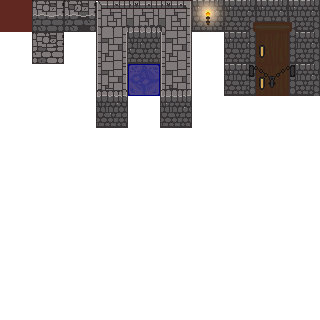
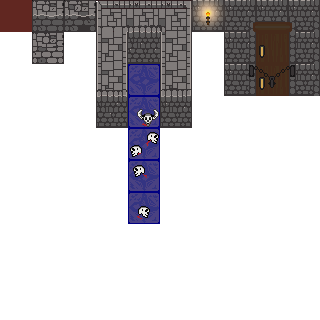
Added floor art (skulls)

Changed region(s): [[0.375, 0.2812, 0.5, 0.7188]]

diff --git a/js/world.js b/js/world.js
@@ -107,7 +107,7 @@ const TILE_DUNGEON_WALL_CORNER_TL = 204;
 const TILE_DUNGEON_WALL_CORNER_TR = 205;
 const TILE_DUNGEON_WALL_CORNER_BL = 206;
 const TILE_DUNGEON_WALL_CORNER_BR = 207;
-const TILE_DUNGEON_WALL_CENTER = 208; // wrong name: actually a floor tile
+const TILE_DUNGEON_FLOOR = 208; 
 const TILE_DUNGEON_DOOR_TL = 209;
 const TILE_DUNGEON_DOOR_TC = 210; // a floor tile so we can walk through
 const TILE_DUNGEON_DOOR_TR = 211;
@@ -122,6 +122,11 @@ const TILE_DUNGEON_WALL_3 = 217;
 const TILE_DUNGEON_LOCKED_DOOR_BL = 218;
 const TILE_DUNGEON_LOCKED_DOOR_BC = 219; 
 const TILE_DUNGEON_LOCKED_DOOR_BR = 220;
+const TILE_DUNGEON_FLOOR_SKULL1 = 221;
+const TILE_DUNGEON_FLOOR_SKULL2 = 222;
+const TILE_DUNGEON_FLOOR_SKULL3 = 223;
+const TILE_DUNGEON_FLOOR_SKULL4 = 224;
+
 
 var MAP_DATA = {
   fallDale: {
@@ -263,13 +268,13 @@ const WORLD_MAPS = {
     [202, 88,208,208,208,208,208,208,208,208,208,208,208,208,201, 88,208,208,208,208,208,208,208,208,208,203,208,208,208,208,208,208,208,208,208,208,208,208,208,208,208,208,208,208,203],
     [202,208,208,208,208,208,208,208,208,208,208,208,208,208,201,208,208,208,208,208,208,208,208,208,208,203,208,208,208,208,208,208,208,208,208,208,208,208,208,208,208,208,208,208,203],
     [202,208,208,208,208,208,208,208,208,208,208,208,208,208,208,208,208,208,208,208,208, 93,208,208,208,203, 93,208,208,208,208,208, 93,208,208,208,208,208,208,208,208,208,208,208,203],
-    [202,208,208,208,208,208,208,208,208,208,208,208,208,208,208,208,208,208,208,208,208,208,208,208,208,203,208,208,208,208,208,208,208,208,208,208,208,208,208,208,208,208,208,208,203],
+    [202,208,208,208,208,208,208,208,208,208,208,208,208,208,208,208,208,208,208,208,208,208,208,208,208,203,208,208,208,224,208,208,208,208,208,208,208,208,208,208,208,208,208,208,203],
     [202,208,208, 93,208,208,208,208,208,208,208,208,208,208,200,200,200,299,200,200,200,200,200,299,200,200,200,200,200,299,200,200,200,200,299,200,200,200,200,200,200,200,200,200,200],
     [202,208,208,208,208,208,208,208,208,208,208,208,208,208,202,201,209,210,211,201,201,202,209,210,211,201,201,201,209,210,211,201,202,209,210,211,201,201,201,201,201,201,201,201,203],
     [202,208,208,208,208,208,208,208,208,208,208,208,208,208,202,201,212,213,214,333,201,202,212,213,214,333,201,333,212,213,214,201,202,212,213,214,207,201,201,201,201,217,201,201,203],
     [202,208,208, 93,208,208,208,208,208,208,208,208,208,208,202,208,208,208,208,208,208,202,208,208,208,208,208,208,208,208,208, 88,202,208,208,208,217,208,208, 78,208,217, 78,208,203],
-    [202,208,208,208,208,208,208,208,208,208,208,208,208,208,202,208,208,208,208,208,208,202,208,208,208,208,208,208,208,208,208,208,202,208,208,  7,217,208,208,208,208,217,208,208,203],
-    [202,208,208,208,208,208,208,208,208,208,208,208,208,208,202,208,208,208,208,208,208,202,208,208,208,208,208,208,208,208,208,208,202,208,208,208,215,208,208,208,  7,217,208,208,203],
+    [202,208,208,208,208,208,208,208,208,208,208,208,208,208,202,208,208,208,222,208,208,202,208,208,208,208,208,208,208,208,208,208,202,208,208,  7,217,208,208,208,208,217,208,208,203],
+    [202,208,208,208,208,208,208,208,208,208,208,223,208,208,202,208,208,208,208,208,208,202,208,208,208,208,208,208,208,208,208,208,202,208,208,208,215,208,208,208,  7,217,208,208,203],
     [202,208,208,208,208,208,208,208,208,208,208,208,208,208,202,208,208,208,208,208,208,202,208,208,208,208,208,208,208,208,208,208,202,208,208,208,208,208,208,208,208,215,208,208,203],
     [202,208,208,208,208,208,208,208,208,208,208,208,208,208,202,208,208,208,208,208,208,202,208,208,208,208,208,208,208,208,208,208,202,  7,208,208,208,208,216,208,208,208,208,208,203],
     [202,208,208,208,208,208,208,208,208,208,208,208,208,208,202,208,208, 95,208,208,208,202,208,208,208,208,208,208,208,208,208,208,202,208,208,  7,208,208,208,208,216,208, 78,208,203],
@@ -281,14 +286,14 @@ const WORLD_MAPS = {
     [202,208,208,208,208,208,208,208,208,201,208,208,208,208,202,208,208,208,208,208,208,208,208,208,208,208,208,208,208,203,208,208,208,208,208, 94,208,203,208,208,208,208,208,208,203],
     [202,208,208,208,208,208,208,208,208,201,208,208,208,208,202,208,208,208,208,208,208,208,208,208,208,208,208,208,208,203,208, 88,208, 88,208, 88,208,203,208,208,208,208,208,208,203],
     [202,208,208,208,208,208,208,208,208,208,208,208,208,208,202,208,208,208,208,208,208,208,208,208, 96,208,208,208,208,203,208,208,208,208,208,208,208,203,208, 78,208,208,208,208,203],
-    [202,208,208, 93,208,208,208,208,208,208,208,208, 93,208,202,208,208,208,208,208,208,208,208,208,208,208,208,208,208,203,200,200,200,200,299,200,200,203,208,208,208,208,208,208,203],
+    [202,208,208, 93,208,208,208,221,208,208,208,208, 93,208,202,208,208,208,208,208,208,208,208,208,208,208,208,208,208,203,200,200,200,200,299,200,200,203,208,208,208,208,208,208,203],
     [202,208,208,208,208,208,208,208,208,203,208,208,208,208,202,208,208,208,208,208,208,208,208,208,208,208,208,208,208,203,201,201,201,209,210,211,201,203,208,208, 93,208, 93,208,203],
     [202,208,208,208,208,208,208,208,208,203,208,208,208,208,202,208,208,208,208,208,208,208,208,208,208,208,208,208,208,203,201,201,201,218,219,220,201,203,208,208,208,208,208,208,203],
     [202,200,200,200,200,200,200,200,200,200,200,299,200,200,200,200,299,200,200,200,200,200,200,200,200,200,200,200,200,200,208,208,208,208,208,208,208,203,208,208,208,208,208,208,203],
-    [202,201,201,201,201,201,201,201,201,203,209,210,211,201,202,209,210,211,203,201,201,201,201,201,201,201,201,201,201,201,208,208,208,208,208,208,208,203,208,208,208,208,208,208,203],
+    [202,201,201,201,201,201,201,201,201,203,209,210,211,201,202,209,210,211,203,201,201,201,201,201,201,201,201,201,201,201,208,208,208,208,208,208,208,203,208,221,208,208,208,208,203],
     [202,201,201,201,333,201,201,201,201,203,212,213,214,333,202,212,213,214,203,201,201,201,201,201,201,201,201,201,201,201,208,208,208,208, 77, 77,208,203,208,208,208,208,208,208,203],
-    [202,208,208,208,208,208,208,208,208,201,208,208,208,208,202,208,208,208,203,208,208,208,208,208,208,208,208,208,208,208,208,208,208,208,208,208,208,201,208,208,208,208,208,208,203],
-    [202,208,208,208,208,208,208,208,208,201,208,208,208,208,202,208,208,208,203,208,208,208,208,208,208,208,208,208,208,208,208,208,208,208,208,208,208,201,208,208, 78,208,208,208,203],
+    [202,208,208,208,208,208,208,208,208,201,208,208,208,208,202,208,208,208,203,221,222,208,208,208,208,208,208,208,208,208,208,208,208,208,208,208,208,201,208,208,208,208,208,208,203],
+    [202,208,208,208,208,208,208,208,208,201,208,208,208,208,202,208,208,208,203,223,224,208,208,208,208,208,208,208,208,208,208,208,208,208,208,208,208,201,208,208, 78,208,208,208,203],
     [202,208,208,208,208,208,208,208,208,208,208,208,208,208,202,208,208,208,203,208,208,208,208,208,208,208,208,208,208,208,208,208,208,208,208,208,208,208,208,208,208,208, 88,208,203],
     [202,208,208, 95,208,208,208,208,208,208,208,208,208, 92,208,208,208, 93,203,208,208,208,208,208,208,208,208,208,208,208,208,208,208,208,208,208,208,208,208,208,208,208,208,208,203],
     [202,208,208,208,208,208,208,208,208,203,208,208,208,208,208,208,208,208,203,208,208,208,208,208,208,208,208,208,208,208,208,208,208,208,208,208,208,203,208,208,208,208, 88,208,203],
@@ -457,13 +462,13 @@ function SetupCollisionGridFromBackground() {
   for (let row = 0; row < TILE_ROWS; row++) {
     for (let col = 0; col < TILE_COLS; col++) {
       const idxHere = tileCoordToIndex(col, row);
-      let tileType = TILE_GRASS; // default if data is missing
+      let tileType = TILE_DUNGEON_FLOOR; // default if data is missing
 
       if (!backgroundGrid[row]) {
         backgroundGrid[row] = [];
       }
       if (backgroundGrid[row][col] === undefined) {
-        backgroundGrid[row][col] = TILE_GRASS;
+        backgroundGrid[row][col] = TILE_DUNGEON_FLOOR;
       }
 
       tileType = backgroundGrid[row][col];
@@ -497,7 +502,7 @@ function getMonsterSpawnTiles() {
         tile === TILE_GHOUL_SPAWN
       ) {
         spawns.push({ tile, col, row });
-        backgroundGrid[row][col] = TILE_DUNGEON_WALL_CENTER;
+        backgroundGrid[row][col] = TILE_DUNGEON_FLOOR;
       }
     }
   }
@@ -877,7 +882,7 @@ function spawnEntitiesFromTiles() {
 
         // Put correct floor under the box
         grid[row][col] = (currentMapKey === "SkeletonKingLair")
-          ? TILE_DUNGEON_WALL_CENTER   // dungeon floor (tile 208)
+          ? TILE_DUNGEON_FLOOR   // dungeon floor (tile 208)
           : TILE_GRASS;                // overworld floor
         continue; // done with this cell
       }
@@ -892,17 +897,17 @@ function spawnEntitiesFromTiles() {
       if (entity instanceof Monster) {
         enemies.push(entity);
         grid[row][col] = (currentMapKey === "SkeletonKingLair")
-          ? TILE_DUNGEON_WALL_CENTER
+          ? TILE_DUNGEON_FLOOR
           : TILE_GRASS;
       } else if (entity instanceof NPC) {
         npcs.push(entity);
       } else if (entity instanceof TreasureChest) {
         if (currentMapKey === "SkeletonKingLair") {
-          grid[row][col] = TILE_DUNGEON_WALL_CENTER;
+          grid[row][col] = TILE_DUNGEON_FLOOR;
         }
       } else if (entity instanceof Destructible) {
         grid[row][col] = (currentMapKey === "SkeletonKingLair")
-          ? TILE_DUNGEON_WALL_CENTER
+          ? TILE_DUNGEON_FLOOR
           : TILE_GRASS;
       }
     }

diff --git a/js/pathfinding.js b/js/pathfinding.js
@@ -7,6 +7,12 @@ const PATHFINDING_TOO_MANY_NODES = 10000;
 const MAX_PATH_DISTANCE = 999999; // 480; 
 
 
+function inSetByXY(set, node) {
+  return set.some(n => n.x === node.x && n.y === node.y);
+}
+function findInSetByXY(set, node) {
+  return set.find(n => n.x === node.x && n.y === node.y);
+}
 
 
 // GridElement Class for Pathfinding
@@ -75,26 +81,25 @@ function findPath(startX, startY, endX, endY, collisionGrid, caller="unknown", m
       
       let neighbors = getNeighbors(currentNode, collisionGrid);
       for (let neighbor of neighbors) {
-          if (closedSet.includes(neighbor) || !neighbor.walkable) {
-              continue;
-          }
-          let tempG = currentNode.g + 1;
-          let newPath = false;
-          
-          if (!openSet.includes(neighbor)) {
-              openSet.push(neighbor);
-              newPath = true;
-          } else if (tempG < neighbor.g) {
-              newPath = true;
-          }
-          
-          if (newPath) {
-              neighbor.g = tempG;
-              neighbor.h = heuristic(neighbor, endNode);
-              neighbor.f = neighbor.g + neighbor.h;
-              neighbor.parent = currentNode;
-          }
-      } // loop neighbors
+        if (!neighbor.walkable) continue;
+        if (inSetByXY(closedSet, neighbor)) continue;
+
+        const tempG = currentNode.g + 1;
+        let existing = findInSetByXY(openSet, neighbor);
+
+        if (!existing) {
+          neighbor.g = tempG;
+          neighbor.h = heuristic(neighbor, endNode);
+          neighbor.f = neighbor.g + neighbor.h;
+          neighbor.parent = currentNode;
+          openSet.push(neighbor);
+        } else if (tempG < existing.g) {
+          existing.g = tempG;
+          existing.parent = currentNode;
+          existing.f = existing.g + existing.h;
+        }
+}
+
   } // repeat until openset is empty
   
   //console.log("Path not found from "+startX+","+startY+" to "+endX+","+endY);

diff --git a/js/imageLoading.js b/js/imageLoading.js
@@ -161,7 +161,11 @@ function loadImages() {
         {tileType: TILE_DUNGEON_WALL_CORNER_TR, theFile: "wall.png", sX: 160, sY: 0, options: 0},
         {tileType: TILE_DUNGEON_WALL_CORNER_BL, theFile: "wall.png", sX: 96, sY: 64, options: 0},
         {tileType: TILE_DUNGEON_WALL_CORNER_BR, theFile: "wall.png", sX: 160, sY: 64, options: 0},
-        {tileType: TILE_DUNGEON_WALL_CENTER, theFile: "wall.png", sX: 128, sY: 64, options: 0},
+        {tileType: TILE_DUNGEON_FLOOR, theFile: "wall.png", sX: 128, sY: 64, options: 0},
+        {tileType: TILE_DUNGEON_FLOOR_SKULL1, theFile: "wall.png", sX: 128, sY: 96, options: 0},
+        {tileType: TILE_DUNGEON_FLOOR_SKULL2, theFile: "wall.png", sX: 128, sY: 128, options: 0},
+        {tileType: TILE_DUNGEON_FLOOR_SKULL3, theFile: "wall.png", sX: 128, sY: 160, options: 0},
+        {tileType: TILE_DUNGEON_FLOOR_SKULL4, theFile: "wall.png", sX: 128, sY: 192, options: 0},
         {tileType: TILE_DUNGEON_DOOR_TL, theFile: "wall.png", sX: 224, sY: 0, options: 0},
         {tileType: TILE_DUNGEON_DOOR_TC, theFile: "wall.png", sX: 256, sY: 0, options: 0},
         {tileType: TILE_DUNGEON_DOOR_TR, theFile: "wall.png", sX: 288, sY: 0, options: 0},
@@ -211,6 +215,8 @@ function loadImages() {
         {tileType: TILE_CRYPT_52, theFile: "SkeletonKingCrypt.png", sX: 64, sY: 128 },
         {tileType: TILE_CRYPT_53, theFile: "SkeletonKingCrypt.png", sX: 96, sY: 128 },
         {tileType: TILE_CRYPT_54, theFile: "SkeletonKingCrypt.png", sX: 128, sY: 128 },
+
+
 
         // this is so NPCs have grass underneath them
         {tileType: TILE_NPC_ALCHEMIST, theFile: "grass.png", sX: "0", sY: "0", options: 4},
